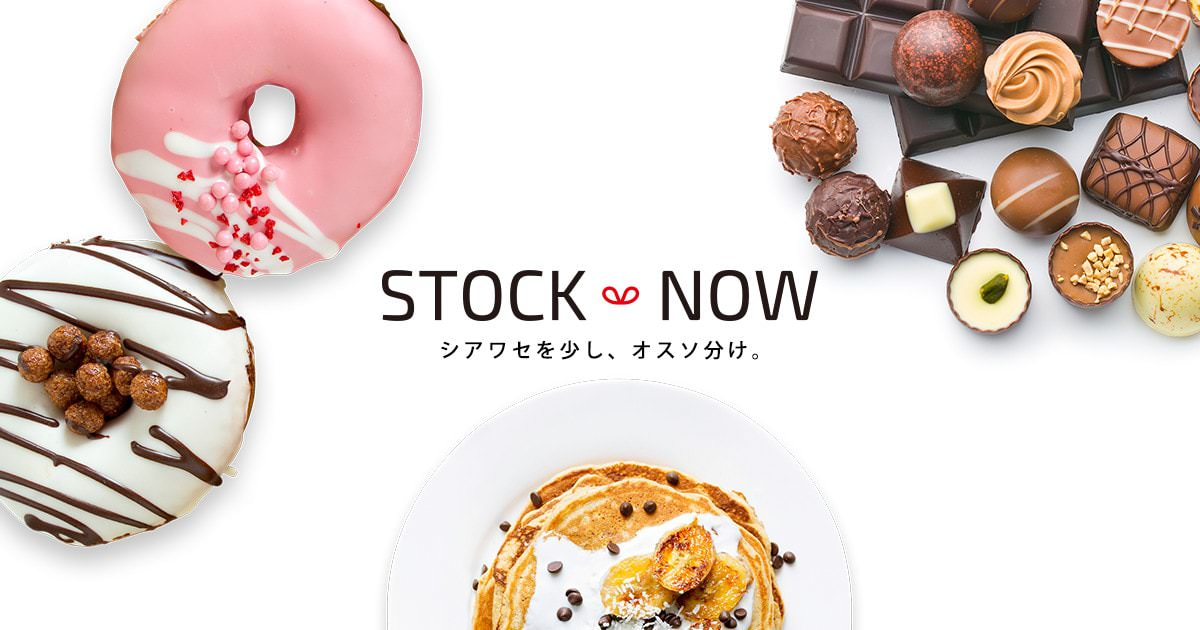
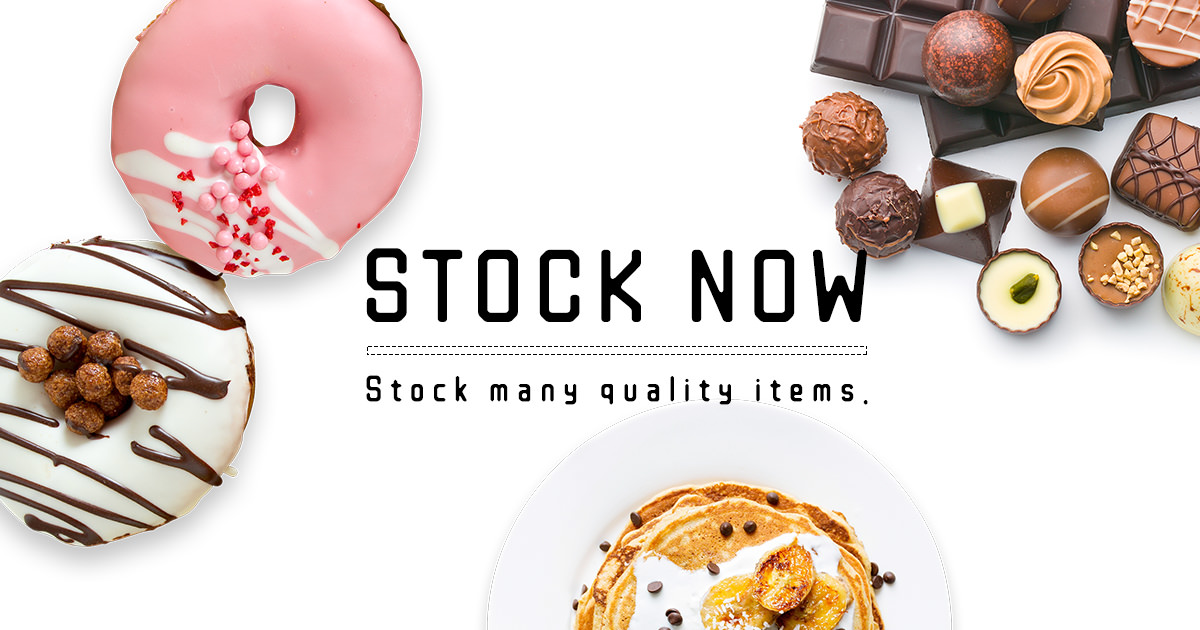
2019.09.03 ogp調整

diff --git a/develop/_mttemp/column/a_entry.html b/develop/_mttemp/column/a_entry.html
@@ -13,7 +13,7 @@
 		<meta property="og:title" content="<mt:Var name='noBrTitle' encode_html='1'><mt:Var name='cmnTitle' encode_html='1'>">
 		<meta property="og:description" content="<mt:Var name='headDescription' encode_html='1'>。<mt:Var name='cmnDescription' encode_html='1'>">
 		<meta property="og:url" content="<mt:Var name='headOGPUrl' encode_html='1'>">
-		<meta property="og:image" content="<mt:WebsiteURL encode_html='1'>img/common/og-image.jpg">
+		<meta property="og:image" content="<mt:WebsiteURL encode_html='1'>img/cmn/pic_ogp.jpg">
 		<meta property="og:type" content="article">
 		<!--#include virtual="/_inc/head_meta_property.html"-->
 		<!--#include virtual="/_inc/head_link.html"-->

diff --git a/trunk/_mttemp/column/a_entry.html b/trunk/_mttemp/column/a_entry.html
@@ -13,7 +13,7 @@
 		<meta property="og:title" content="<mt:Var name='noBrTitle' encode_html='1'><mt:Var name='cmnTitle' encode_html='1'>">
 		<meta property="og:description" content="<mt:Var name='headDescription' encode_html='1'>。<mt:Var name='cmnDescription' encode_html='1'>">
 		<meta property="og:url" content="<mt:Var name='headOGPUrl' encode_html='1'>">
-		<meta property="og:image" content="<mt:WebsiteURL encode_html='1'>img/common/og-image.jpg">
+		<meta property="og:image" content="<mt:WebsiteURL encode_html='1'>img/cmn/pic_ogp.jpg">
 		<meta property="og:type" content="article">
 		<!--#include virtual="/_inc/head_meta_property.html"-->
 		<!--#include virtual="/_inc/head_link.html"-->

diff --git a/develop/_mttemp/column/s_search.html b/develop/_mttemp/column/s_search.html
@@ -13,7 +13,7 @@
 		<meta property="og:title" content="キーワードタグ：<mt:SearchString><mt:Var name='cmnTitle' encode_html='1'>">
 		<meta property="og:description" content="<mt:Var name='headDescription' encode_html='1'>">
 		<meta property="og:url" content="<mt:Var name='headOGPUrl' encode_html='1'>">
-		<meta property="og:image" content="<mt:WebsiteURL encode_html='1'>img/common/og-image.jpg">
+		<meta property="og:image" content="<mt:WebsiteURL encode_html='1'>img/cmn/pic_ogp.jpg">
 		<meta property="og:type" content="article">
 		<mt:Include file="../_inc/head_meta_property.html">
 		<mt:Include file="../_inc/head_link.html">

diff --git a/trunk/_mttemp/column/s_search.html b/trunk/_mttemp/column/s_search.html
@@ -13,7 +13,7 @@
 		<meta property="og:title" content="キーワードタグ：<mt:SearchString><mt:Var name='cmnTitle' encode_html='1'>">
 		<meta property="og:description" content="<mt:Var name='headDescription' encode_html='1'>">
 		<meta property="og:url" content="<mt:Var name='headOGPUrl' encode_html='1'>">
-		<meta property="og:image" content="<mt:WebsiteURL encode_html='1'>img/common/og-image.jpg">
+		<meta property="og:image" content="<mt:WebsiteURL encode_html='1'>img/cmn/pic_ogp.jpg">
 		<meta property="og:type" content="article">
 		<mt:Include file="../_inc/head_meta_property.html">
 		<mt:Include file="../_inc/head_link.html">
